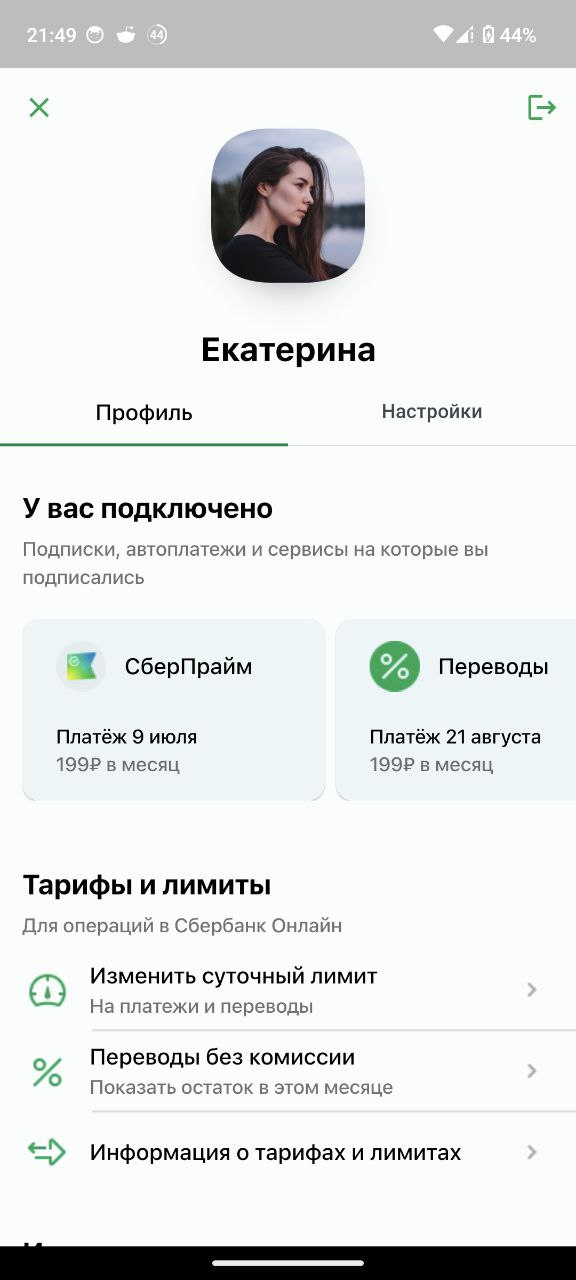
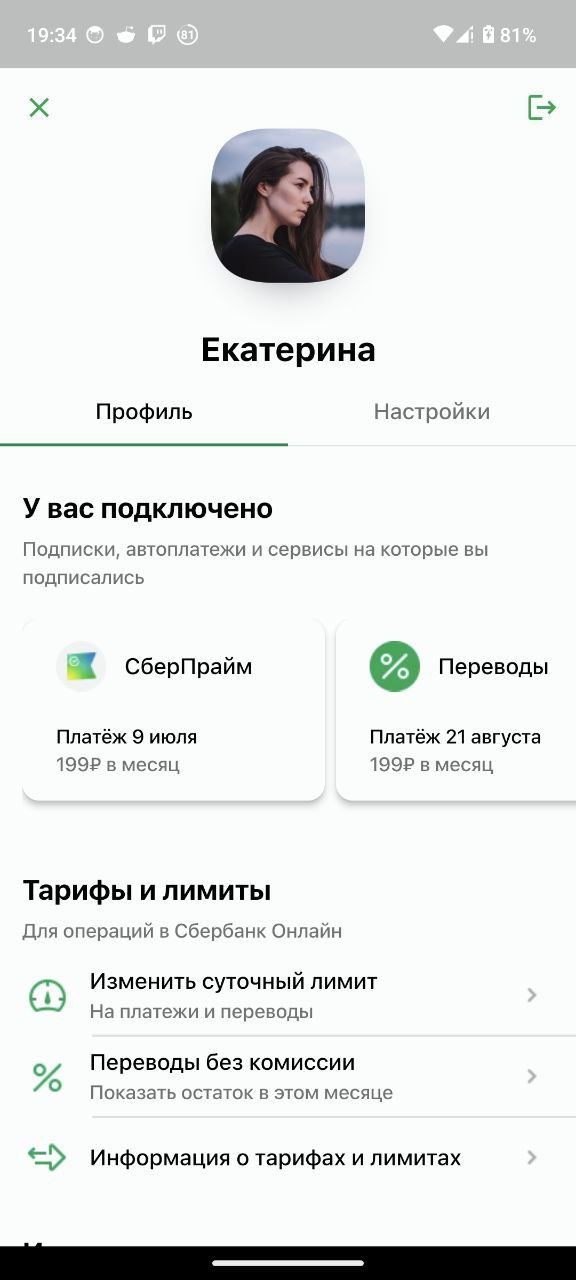
lower min dart version/add text style to tab bar labels/reduce the amount of 'magic numbers'

diff --git a/lib/widgets/SubscriptionsList.dart b/lib/widgets/SubscriptionsList.dart
@@ -14,20 +14,18 @@ class SubscriptionCard extends StatelessWidget {
   @override
   Widget build(BuildContext context) {
     return Padding(
-      padding: EdgeInsets.only(right: Sizes.rightPadding),
+      padding: EdgeInsets.only(right: Sizes.subscriptionsPadding),
       child: ElevatedButton(
           onPressed: () {},
           child: Padding(
-            padding: EdgeInsets.symmetric(horizontal: 0, vertical: Sizes.basePadding),
+            padding: EdgeInsets.symmetric(vertical: Sizes.basePadding),
             child: Column(
               crossAxisAlignment: CrossAxisAlignment.start,
               children: [
                 Row(
                   children: [
                     Image.asset(subscription.imageName, width: Sizes.iconWidth, height: Sizes.iconHeight),
-                    const SizedBox(
-                      width: 13,
-                    ),
+                    const SizedBox(width: 13),
                     Text(subscription.name, style: TextStyles.primary(Sizes.regular))
                   ],
                 ),
@@ -50,25 +48,30 @@ class SubscriptionList extends StatelessWidget {
 
   @override
   Widget build(BuildContext context) {
-    return Padding(
-      padding: EdgeInsets.only(left: Sizes.leftPadding),
-      child: Column(
-        crossAxisAlignment: CrossAxisAlignment.start,
-        children: [
-          SectionHeader(title: Strings.activeSubscriptions, subtitle: Strings.activeSubscriptionsDescription),
-          const SizedBox(height: 20),
-          SizedBox(
-              width: double.infinity,
-              height: 130,
-              child: ListView.builder(
-                  scrollDirection: Axis.horizontal,
-                  itemCount: subscriptions.length,
-                  itemBuilder: (ctx, index) {
-                    return SubscriptionCard(subscription: subscriptions[index]);
-                  })
-          )
-        ],
-      ),
+    return Column(
+      crossAxisAlignment: CrossAxisAlignment.start,
+      children: [
+        Padding(
+          padding: EdgeInsets.symmetric(horizontal: Sizes.leftPadding),
+          child: SectionHeader(title: Strings.activeSubscriptions, subtitle: Strings.activeSubscriptionsDescription),
+        ),
+        const SizedBox(height: 20),
+        SizedBox(
+            width: double.infinity,
+            height: Sizes.subscriptionListHeight,
+            child: Padding(
+              padding: EdgeInsets.only(left: Sizes.leftPadding),
+              child : ListView.builder(
+                scrollDirection: Axis.horizontal,
+                padding: EdgeInsets.only(bottom: Sizes.subscriptionBottomPadding),
+                itemCount: subscriptions.length,
+                itemBuilder: (ctx, index) {
+                  return SubscriptionCard(subscription: subscriptions[index]);
+                })
+            )
+        ),
+        const SizedBox(height: 10)
+      ],
     );
   }
 }

diff --git a/lib/screens/Profile.dart b/lib/screens/Profile.dart
@@ -1,5 +1,6 @@
 import 'package:flutter/material.dart';
 import 'package:lara/data/DataProvider.dart';
+import 'package:lara/theme/Sizes.dart';
 import 'package:lara/widgets/Interests.dart';
 import 'package:lara/widgets/RatesAndLimits.dart';
 import 'package:lara/widgets/SubscriptionsList.dart';
@@ -38,24 +39,29 @@ class _ProfileScreen extends State<ProfileScreen>
                     )
                   ];
                 },
-                body: TabBarView(controller: _tabController, children: [
-                  ListView(physics: const NeverScrollableScrollPhysics(), children: [
-                    // some magic numbers here
-                    const SizedBox(
-                      height: 30,
-                    ),
-                    SubscriptionList(
-                        subscriptions: dataProvider.getUsersSubscriptions()),
-                    const SizedBox(
-                      height: 46,
-                    ),
-                    RatesAndLimitsList(list: dataProvider.getRatesAndLimits()),
-                    const SizedBox(
-                      height: 34,
-                    ),
-                    Interests(interestsList: dataProvider.getInterests())
-                  ]),
-                  const Center(child: CircularProgressIndicator())
-                ]))));
+                body: TabBarView(
+                    controller: _tabController,
+                    children: [
+                      // Profile page
+                      ListView(
+                        physics: const NeverScrollableScrollPhysics(),
+                        children: [
+                          SizedBox(height: Sizes.elementsPadding),
+                          SubscriptionList(
+                            subscriptions: dataProvider.getUsersSubscriptions()
+                          ),
+                          SizedBox(height: Sizes.elementsPadding),
+                          RatesAndLimitsList(list: dataProvider.getRatesAndLimits()),
+                          SizedBox(height: Sizes.elementsPadding),
+                          Interests(interestsList: dataProvider.getInterests())
+                        ]
+                      ),
+                      // Settings Page 
+                      const Center(child: CircularProgressIndicator())
+                    ]
+                )
+            )
+        )
+    );
   }
 }

diff --git a/lib/widgets/AppBar.dart b/lib/widgets/AppBar.dart
@@ -1,6 +1,7 @@
 import 'package:flutter/material.dart';
 import 'package:lara/data/User.dart';
 import 'package:lara/resources/Strings.dart';
+import 'package:lara/theme/Colors.dart';
 import 'package:lara/theme/Sizes.dart';
 import 'package:lara/theme/TextStyles.dart';
 
@@ -14,12 +15,9 @@ class Appbar extends StatelessWidget {
   @override
   Widget build(BuildContext context) {
     return SliverAppBar(
-      //elevation: 2,
-      // looks cool
-      // forceElevated: true,
       pinned: true,
       floating: false,
-      expandedHeight: 270,
+      expandedHeight: Sizes.appBarExpandedHeight,
       actions: [
         IconButton(
           icon: const Icon(Icons.logout),
@@ -54,17 +52,17 @@ class Appbar extends StatelessWidget {
               mainAxisAlignment: MainAxisAlignment.center,
               children: <Widget>[
                 Container(
-                  width: 110,
-                  height: 110,
+                  width: Sizes.profileImageWidth,
+                  height: Sizes.profileImageHeight,
                   decoration: ShapeDecoration(
                     shape: RoundedRectangleBorder(
-                      borderRadius: BorderRadius.circular(38),
+                      borderRadius: BorderRadius.circular(Sizes.profileImageRadius),
                     ),
-                    shadows: const [
+                    shadows: [
                       BoxShadow(
-                        color: Color(0x7A1D1D25),
+                        color: AppColor.profileShadow,
                         blurRadius: 24,
-                        offset: Offset(0, 16),
+                        offset: const Offset(0, 16),
                         spreadRadius: -16,
                       )
                     ],
@@ -76,11 +74,13 @@ class Appbar extends StatelessWidget {
                 ),
                 Text(user.name,
                     textAlign: TextAlign.center,
-                    style: TextStyles.primaryBold(Sizes.largeHeader)),
+                    style: TextStyles.primaryBold(Sizes.largeHeader)
+                ),
                 const SizedBox(
                   height: 10,
                 ),
-              ]),
+              ]
+          ),
         ),
       ),
     );

diff --git a/lib/widgets/Interests.dart b/lib/widgets/Interests.dart
@@ -20,24 +20,28 @@ class _Interests extends State<Interests> {
   Widget build(BuildContext context) {
     return Padding(
         padding: EdgeInsets.symmetric(horizontal: Sizes.basePadding),
-        child: Column(crossAxisAlignment: CrossAxisAlignment.start, children: [
-          SectionHeader(title: Strings.interests, subtitle: Strings.interestsDescription),
-          const SizedBox(height: 8),
-          Wrap(
-            spacing: 8,
+        child: Column(
+            crossAxisAlignment: CrossAxisAlignment.start,
             children: [
-              for (var interestKey in widget.interests.keys)
-                FilterChip(
-                  label: Text(interestKey, style: TextStyles.primary(Sizes.small)),
-                  selected: widget.interests[interestKey]!,
-                  onSelected: (bool selected) {
-                    setState(() {
-                      widget.interests[interestKey] = selected;
-                    });
-                  },
-                )
-            ],
-          )
-        ]));
+              SectionHeader(title: Strings.interests, subtitle: Strings.interestsDescription),
+              const SizedBox(height: 8),
+              Wrap(
+                spacing: Sizes.chipSpacing, 
+                children: [
+                  for (var interestKey in widget.interests.keys)
+                    FilterChip(
+                      label: Text(interestKey, style: TextStyles.primary(Sizes.small)), 
+                      selected: widget.interests[interestKey]!, 
+                      onSelected: (bool selected) {
+                        setState(() {
+                          widget.interests[interestKey] = selected;
+                        });
+                      },
+                    )
+                ],
+              )
+            ]
+        )
+    );
   }
 }

diff --git a/lib/theme/Theme.dart b/lib/theme/Theme.dart
@@ -10,8 +10,8 @@ class AppTheme {
       chipTheme: ChipThemeData(
           labelStyle: TextStyles.primary(Sizes.small),
           shape: RoundedRectangleBorder(
-              borderRadius: BorderRadius.circular(16),
-              side: const BorderSide(width: 0, color: Colors.transparent)
+              borderRadius: BorderRadius.circular(Sizes.circledRectRadius),
+              side: const BorderSide(color: Colors.transparent)
           ),
           backgroundColor: AppColor.chipBackground,
           selectedColor: AppColor.chipSelected,
@@ -19,16 +19,25 @@ class AppTheme {
       ),
       elevatedButtonTheme: ElevatedButtonThemeData(
           style: ElevatedButton.styleFrom(
-              fixedSize: const Size(216, 130),
+              elevation: 4,
+              foregroundColor: AppColor.hoverOnPrimary,
+              surfaceTintColor: AppColor.primary,
+              fixedSize: Size(Sizes.subscriptionButtonWidth, Sizes.subscriptionButtonHeight),
               shape: RoundedRectangleBorder(
-                borderRadius: BorderRadius.circular(12),
+                borderRadius: BorderRadius.circular(Sizes.mediumRadius),
               )
           ),
       ),
+      dividerTheme: DividerThemeData(
+        thickness: Sizes.dividerThickness,
+      ),
       appBarTheme: AppBarTheme(
-          iconTheme: IconThemeData(color: AppColor.icon)),
+          surfaceTintColor: AppColor.primary,
+          iconTheme: IconThemeData(color: AppColor.icon)
+      ),
       tabBarTheme: TabBarTheme(
           labelStyle: TextStyles.primary(Sizes.regular),
+          unselectedLabelStyle: TextStyles.secondary(Sizes.regular),
           labelColor: AppColor.primaryText,
           indicator: BoxDecoration(
               border: Border(

diff --git a/lib/theme/Sizes.dart b/lib/theme/Sizes.dart
@@ -2,14 +2,42 @@ class Sizes {
   static double iconWidth = 36;
   static double iconHeight = 36;
   
+  static double subscriptionButtonWidth = 216;
+  static double subscriptionButtonHeight = 130;
+  
+  static double subscriptionListHeight = subscriptionButtonHeight + subscriptionBottomPadding;
+  
+  static double appBarExpandedHeight = 270;
+  
+  static double profileImageWidth = 110;
+  static double profileImageHeight = 110;
+
+  static double dividerThickness = 1.5;
+  static double dividerHeight = 10;
+  static double dividerRatesIndent = 50;
+  
+  // Paddings
   static double basePadding = 16;
   static double leftPadding = 16;
   static double rightPadding = 8;
   static double sectionPadding = 4;
+  
+  static double subscriptionsPadding = 8;
+  static double subscriptionBottomPadding = 10;
+  
+  static double elementsPadding = 30;
   
   // Text
   static double regular = 16;
   static double small = 14;
   static double regularHeader = 20;
   static double largeHeader = 24;
+  
+  // Border radius
+  static double mediumRadius = 12;
+  static double circledRectRadius = 16;
+  static double profileImageRadius = 38;
+  
+  // Spacing
+  static double chipSpacing = 8;
 }

diff --git a/lib/widgets/RatesAndLimits.dart b/lib/widgets/RatesAndLimits.dart
@@ -46,7 +46,9 @@ class RatesAndLimitsItem extends StatelessWidget {
                     icon: Image.asset(Images.arrowRight)
                 )
               ],
-            )));
+            )
+        )
+    );
   }
 }
 
@@ -70,9 +72,8 @@ class RatesAndLimitsList extends StatelessWidget {
               if (index != list.length - 1) ...[
                 RatesAndLimitsItem(item: item),
                 Divider(
-                  height: 10,
-                  thickness: 1.5,
-                  indent: 50,
+                  height: Sizes.dividerHeight,
+                  indent: Sizes.dividerRatesIndent,
                   color: AppColor.divider,
                 )
               ] else

diff --git a/lib/widgets/SectionHeader.dart b/lib/widgets/SectionHeader.dart
@@ -16,9 +16,7 @@ class SectionHeader extends StatelessWidget {
       children: [
         Text(title, style: TextStyles.primaryBold(Sizes.regularHeader)),
         SizedBox(height: Sizes.sectionPadding),
-        Text(subtitle,
-          style: TextStyles.secondary(Sizes.small)
-        )
+        Text(subtitle, style: TextStyles.secondary(Sizes.small))
       ],
     );
   }

diff --git a/lib/theme/Colors.dart b/lib/theme/Colors.dart
@@ -16,5 +16,7 @@ class AppColor {
   static Color chipBackground = const Color.fromRGBO(0, 0, 0, 0.08);
   static Color chipSelected = const Color.fromRGBO(8, 166, 82, 0.75);
   
-
+  static Color profileShadow = const Color(0x7A1D1D25);
+  
+  static Color hoverOnPrimary = const Color.fromRGBO(8, 166, 82, 0.2);
 }

diff --git a/README.md b/README.md
@@ -1,13 +1,24 @@
 # Лабораторная работа №1 по Flutter
-Flutter 3.17.0-12.0.pre.21
+Flutter 3.17.0-12.0.pre.21(also tested with 3.16.9)
 
 Dart 3.3.0 (build 3.3.0-149.0.dev) • DevTools
 2.30.0-dev.4
 
-# Screenshots
-![First home image](assets/screenshots/home_1.jpg)
-![First home image](assets/screenshots/home_2.jpg)
-![First home image](assets/screenshots/home_rotated.jpg)
+Minimal Dart version of this project 3.1.0 as this major version introduced no changes to the language.
 
-# Installation
+### Note about interface
+I decided to keep tab bar instead of name because I think that it is more
+useful to the user as (I think) they already know their name and they
+can't see other's user profile
+
+## Screenshots
+| Home 1                                             | Home 2                                              |
+|----------------------------------------------------|-----------------------------------------------------|
+| ![First home image](assets/screenshots/home_1.jpg) | ![Second home image](assets/screenshots/home_2.jpg) |
+
+| Home rotated                                               |
+|------------------------------------------------------------|
+| ![Rotated home image](assets/screenshots/home_rotated.jpg) |
+
+## Installation
 apks can be found in `releases` section
